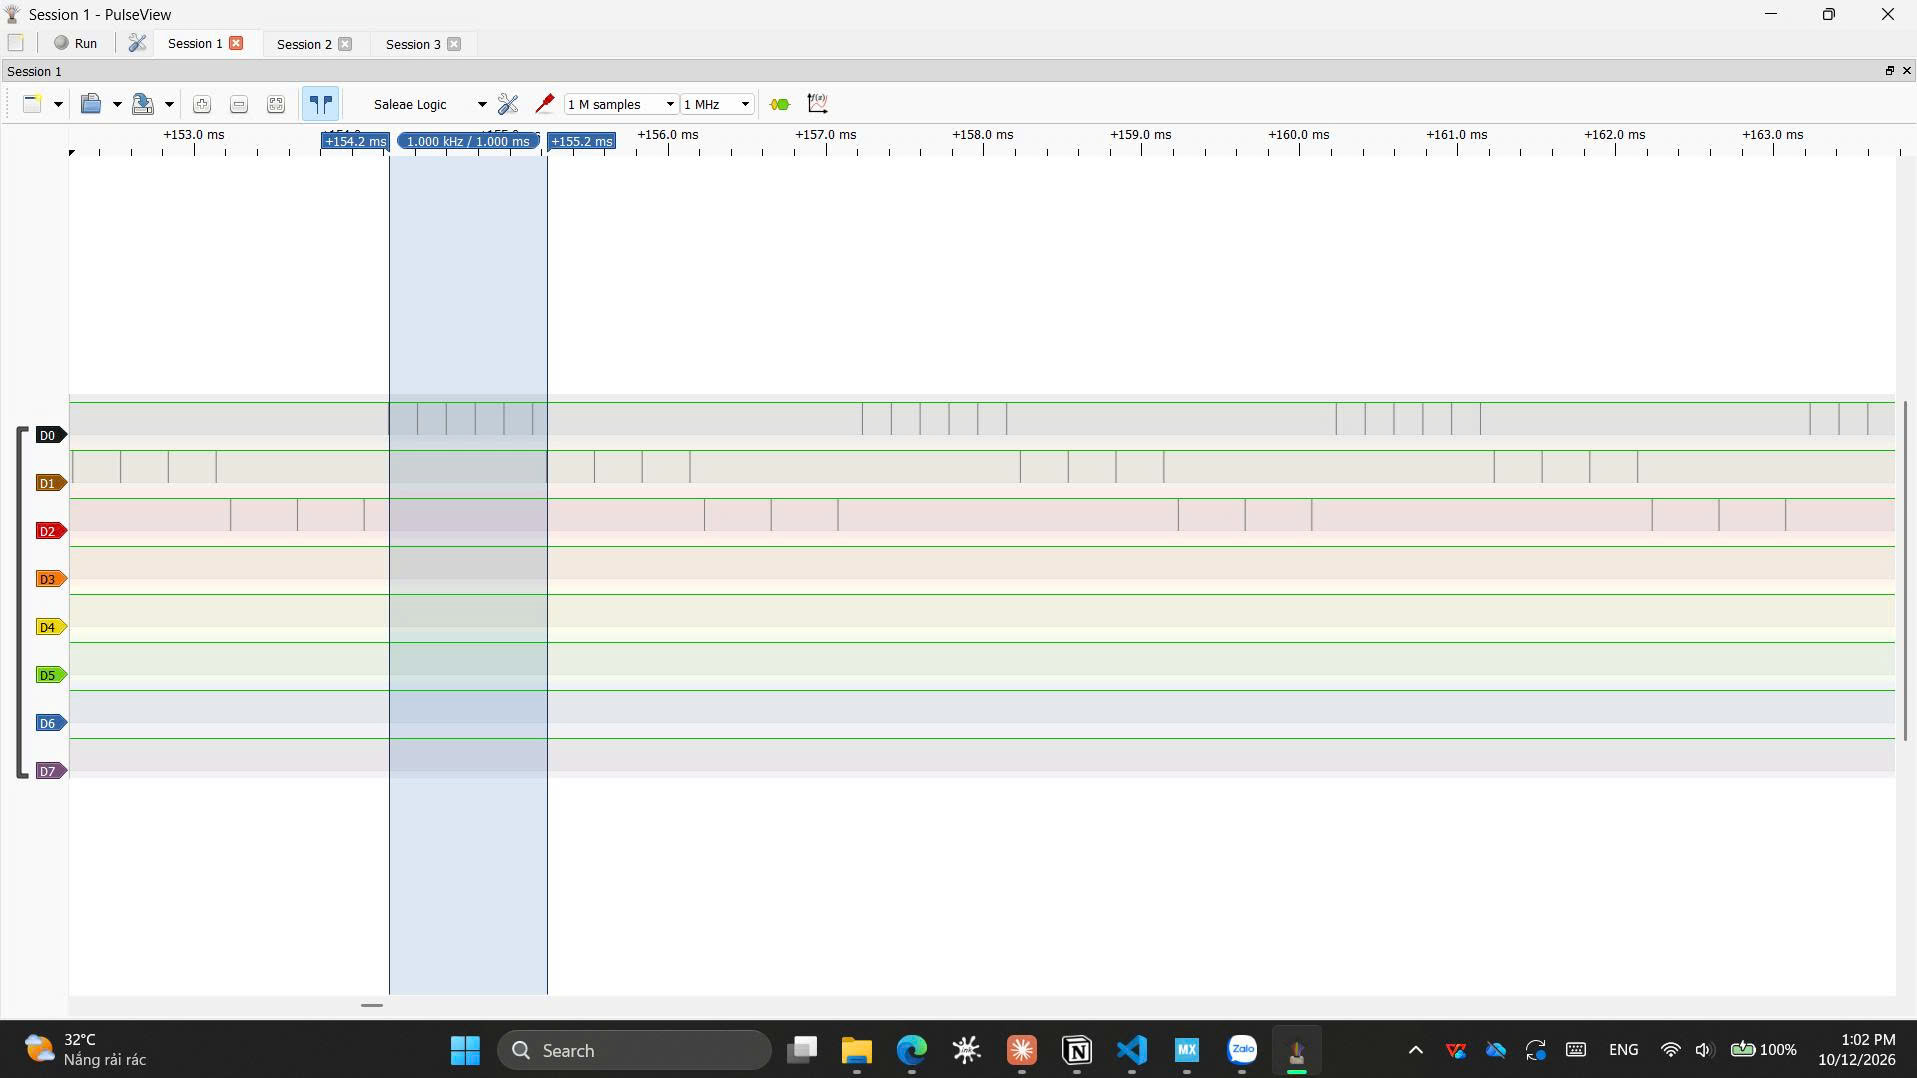
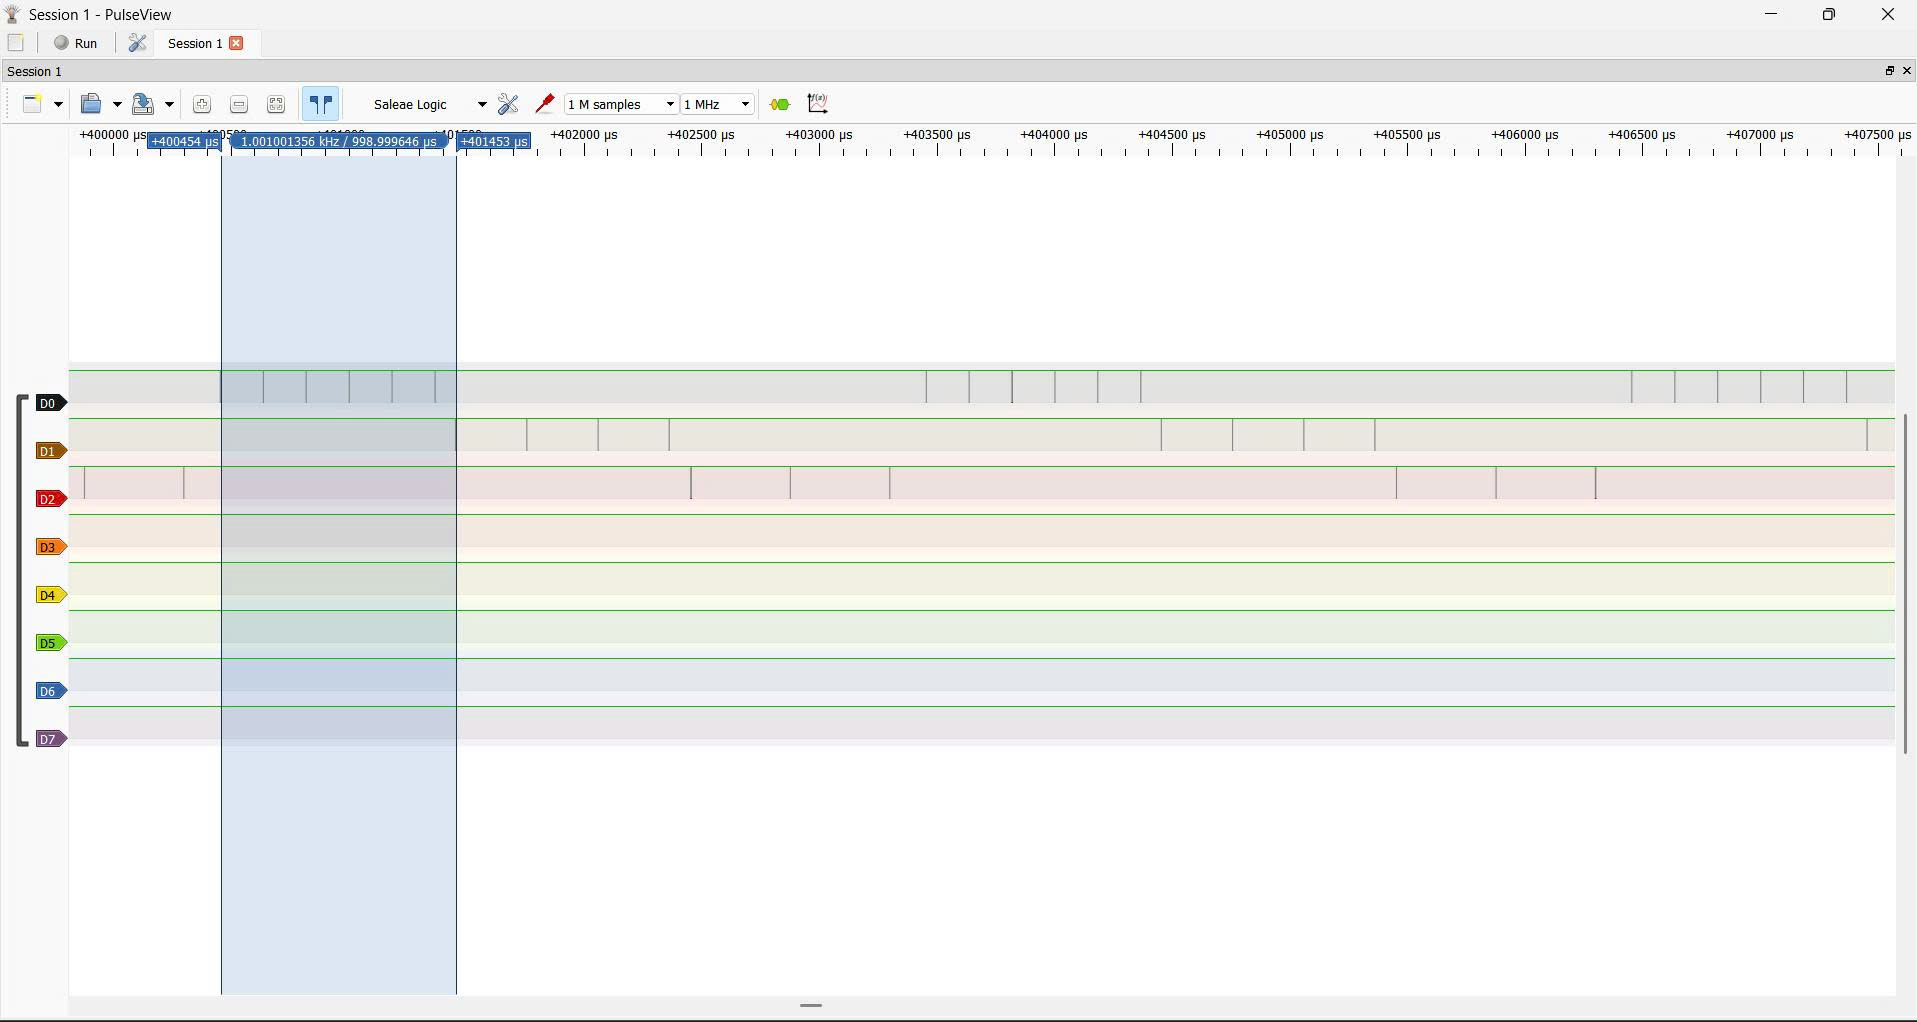
feat: submit REPORT.md (unfinished, just draft)

diff --git a/week1/ex2/app/app_main.c b/week1/ex2/app/app_main.c
@@ -17,8 +17,8 @@ void app_main(void)
      *       Keep the stacks as small as you can still justify — ex4 will make
      *       you prove the number. */
     BaseType_t status_A = xTaskCreate(task_a, "Task A", 128U, NULL, TASK_A_PRIO, NULL);
-    BaseType_t status_B = xTaskCreate(task_b, "Task B", 128U, NULL, TASK_B_PRIO, NULL);
-    BaseType_t status_C = xTaskCreate(task_c, "Task C", 128U, NULL, TASK_C_PRIO, NULL);
+    BaseType_t status_B = xTaskCreate(task_b, "Task B", 128U, NULL, TASK_A_PRIO, NULL);
+    BaseType_t status_C = xTaskCreate(task_c, "Task C", 128U, NULL, TASK_A_PRIO, NULL);
 
     if (status_A != pdPASS) {
         for (;;) { /*Handle Task A creation failure*/ }

diff --git a/week1/ex2/app/dwt.c b/week1/ex2/app/dwt.c
@@ -20,9 +20,8 @@ void dwt_busy_wait_us(uint32_t microseconds)
      *         SystemCoreClock is 72000000. Handle CYCCNT wrap-around correctly
      *         — unsigned subtraction, not a comparison of absolute values.
      *         Explain in REPORT.md why the naive comparison breaks every ~59 s. */
-    const uint32_t cycles_per_us = 72000000U / 1000000U;
-    const uint32_t cycles = cycles_per_us * microseconds;
     const uint32_t start = DWT->CYCCNT;
+    const uint32_t cycles = (72000000U / 1000000U) * microseconds;
 
     while ((uint32_t)(DWT->CYCCNT - start) < cycles) {/*Busy wait*/}
 }

diff --git a/week1/ex2/app/tasks.c b/week1/ex2/app/tasks.c
@@ -24,6 +24,7 @@ void task_a(void *argument)
     (void)argument;
     for (;;) {
         task_run(GPIOA, TASK_A_PIN, TASK_A_WORK_US);
+        // vTaskDelay(pdMS_TO_TICKS(1));
     }
 }
 
@@ -32,6 +33,8 @@ void task_b(void *argument)
     (void)argument;
     for (;;) {
         task_run(GPIOA, TASK_B_PIN, TASK_B_WORK_US);
+        /* Allow lower-priority tasks to execute */
+        // vTaskDelay(pdMS_TO_TICKS(1));
     }
 }
 

diff --git a/week1/ex2/REPORT.md b/week1/ex2/REPORT.md
@@ -1,16 +1,17 @@
 # Report — Week 1 / Ex2
 
-`student_id`: ______    Commit của PREDICTION.md: ______
+`student_id`: 2413505    
+Commit của PREDICTION.md: `feat: submit PREDICTION.md file for ex2` (10g, 12/10/2026)
 
 ## 1. CPU share đo được
 | Cấu hình | A (%) | B (%) | C (%) | Time slice đo được | Ảnh |
 |---|---|---|---|---|---|
-| B2: preempt=1, ưu tiên khác nhau | | | | — | |
-| B3: preempt=0, ưu tiên khác nhau | | | | — | |
-| B4: preempt=1, cùng ưu tiên | | | | ms | |
-| B5: sau khi sửa starvation | | | | | |
+| B2: preempt=1, ưu tiên khác nhau |0|0|100| — |[ex2_1.png](ex2_1.png)|
+| B3: preempt=0, ưu tiên khác nhau |0|0|100| — |[ex2_2.jpg](ex2_2.jpg)|
+| B4: preempt=1, cùng ưu tiên |~33.33|~33.33|~33.33| 1ms |[ex2_3.jpg](ex2_3.jpg)|
+| B5: sau khi sửa starvation |~18|~30|~42|—|[ex2_4.jpg](ex2_4.jpg)|
 
-Cách tính CPU share từ ảnh PulseView (mô tả ngắn):
+Cách tính CPU share từ ảnh PulseView (mô tả ngắn): CPU share (%) = (Tổng thời gian task chiếm CPU trong một đoạn thời gian đo / Tổng thời gian của đoạn đo đó) x 100%.
 
 ## 2. Preemption nhìn thấy ở đâu
 Trên ảnh bước 2, chỉ ra ít nhất **2 thời điểm** preemption xảy ra. Với mỗi thời điểm:
@@ -21,16 +22,19 @@ dấu thời gian, task bị cắt, task chiếm CPU, và vì sao.
 | | | | |
 
 ## 3. Time slice
-Time slice đo được ở bước 4: ______ ms. `configTICK_RATE_HZ` = ______.
-Sai số: ______ %. Giải thích sai số:
+Time slice đo được ở bước 4: 1 ms. `configTICK_RATE_HZ` = 1000.
+Sai số: 0.4 %. Giải thích sai số: Có thể xuất phát từ độ phân giải lấy mẫu của Logic Analyzer.
 
 ## 4. DWT wrap-around
 Tại sao so sánh `DWT->CYCCNT > target` bị sai sau ~59 giây, và cách viết đúng:
+- DWT->CYCCNT là bộ đếm 32-bit không dấu, tự quay về 0 khi tràn. Với CPU 72 MHz, thời điểm tràn (tính từ lúc bắt đầu đếm) là sau khoảng 59,65 s (2^32 / 72×10^6).
+
+- Cách viết sai là so sánh giá trị tuyệt đối: tính target = CYCCNT + duration rồi chờ CYCCNT > target. Gần điểm tràn, target có thể quay về số nhỏ nên vòng lặp thoát ngay, hoặc CYCCNT đã tràn mà target vẫn là số lớn nên phải chờ gần 59 s.
+
+- Cách viết đúng là so sánh hiệu: đọc start = DWT->CYCCNT một lần ngay trước khi chờ, rồi lặp trong khi (uint32_t)(DWT->CYCCNT - start) < duration_cycles. Phép trừ unsigned 32-bit là phép modulo 2^32 nên luôn cho đúng số chu kỳ đã trôi qua, kể cả khi CYCCNT đã tràn giữa chừng
 
 ## 5. Sửa starvation
-Cách tôi chọn: ______
-Vì sao nó hoạt động (dựa vào trạng thái task trong scheduler):
-Đánh đổi: ______
+
 
 ## 6. Lệch so với dự đoán
 Mỗi mục lệch + nguyên nhân vật lý.
